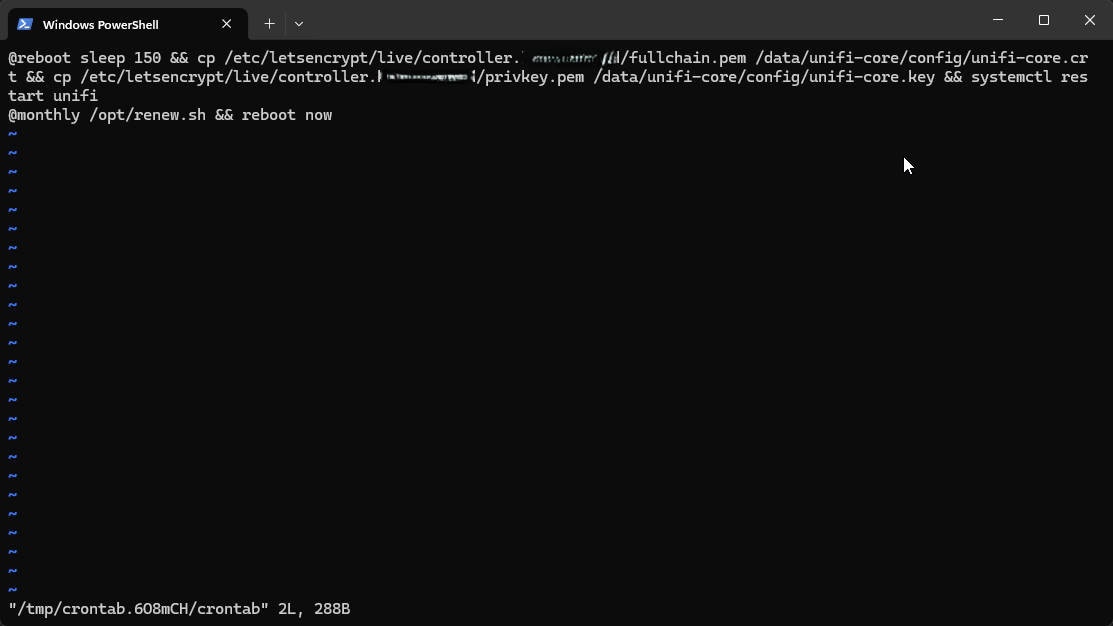
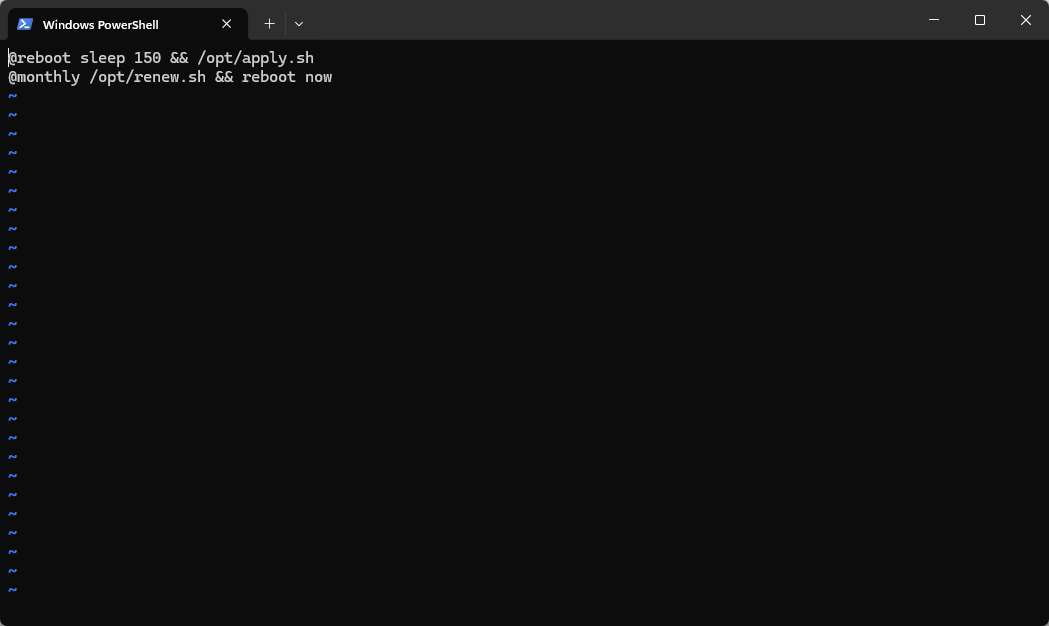
new image and description for setup (#6)

Changed region(s): [[0.0, 0.0, 0.9762, 0.2125], [0.0, 0.9409, 0.3051, 1.0], [0.7931, 0.2428, 0.8236, 0.2732]]

diff --git a/docs/unifi.md b/docs/unifi.md
@@ -159,7 +159,7 @@ Then I used pip to install certbot
 <img src="images/unifi_ssh/01_pip_install_certbot.png" alt="" />
 
 
-Last, I wrote [a shell script](https://github.com/kmanc/unifi_network_setup/blob/main/scripts/cloudflare_lets_encrypt_renewer.sh) that auto-renews my certificate using the Cloudflare API, and created a cron job that renews the certificate once a month and copies it into the correct location on the CloudKey every time the device is rebooted (after a small delay)
+Last, I wrote [a shell script that auto-renews my certificate](https://github.com/kmanc/unifi_network_setup/blob/main/scripts/cloudflare_lets_encrypt_renewer.sh) using the Cloudflare API, and  [a shell script that applies it to the cloud key](https://github.com/kmanc/unifi_network_setup/blob/main/scripts/lets_encrypt_certificate_applier.sh). A cron job runs the renewer script once a month and the applier script on each reboot, ensuring certificates are always up-to-date.
 
 
 <img src="images/unifi_ssh/02_cronjob_cert_stuff.png" alt="" />
